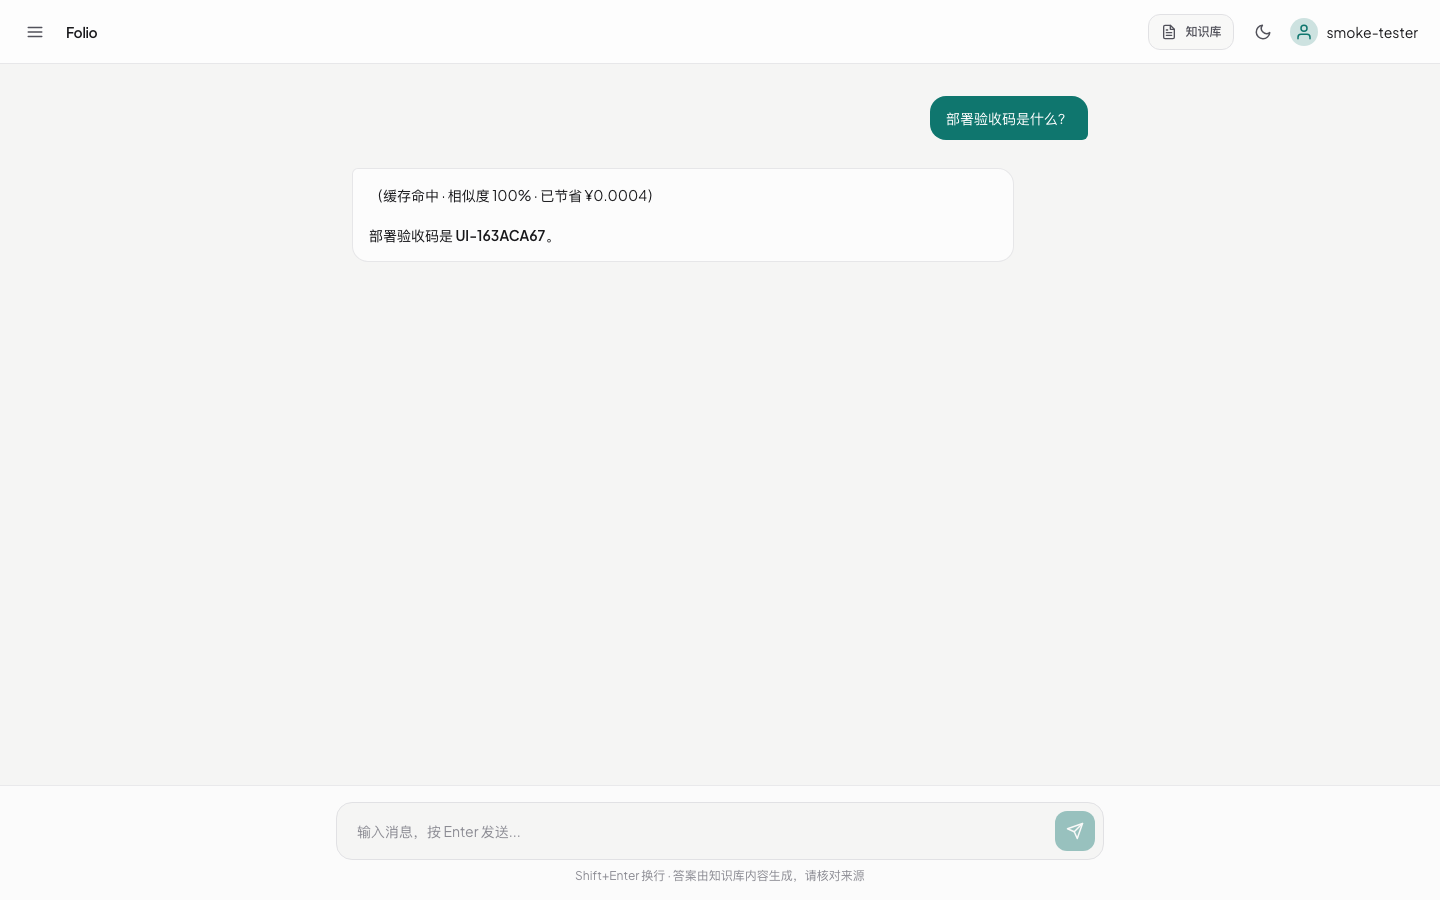
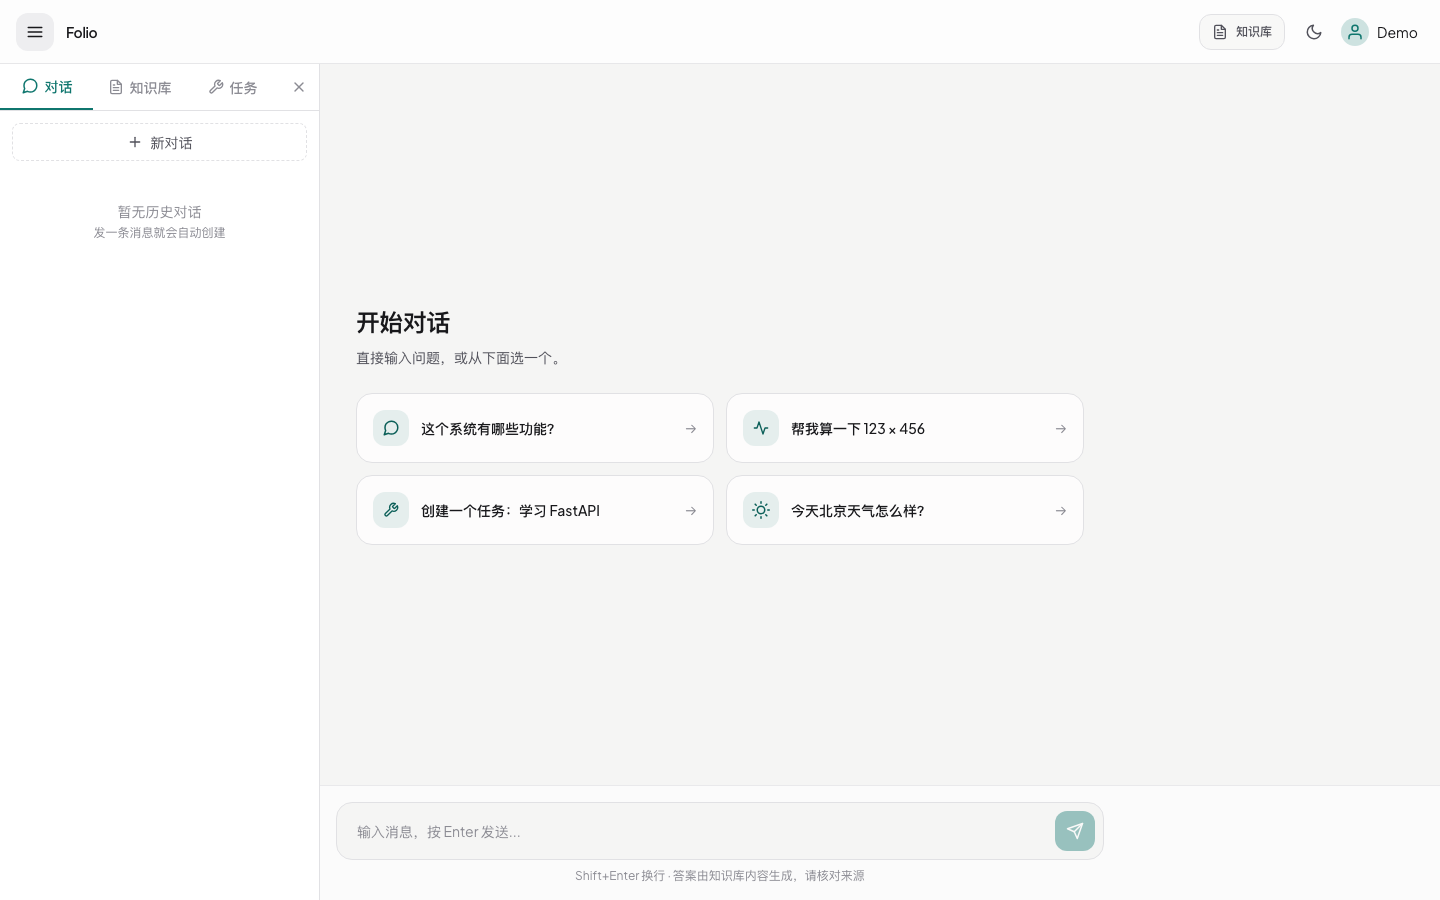
docs: 清理旧截图并统一 Folio 标题
- PROJECT_NAME 与 OpenAPI 标题改为 Folio，API 欢迎语同步
- README 截图换成中性主题下的登录/聊天/知识库三张
- 删除不再引用的旧版截图

diff --git a/app/main.py b/app/main.py
@@ -109,8 +109,8 @@ async def lifespan(app: FastAPI):
 
 
 app = FastAPI(
-    title="FastAPI Starter",
-    description="A production-ready FastAPI AI Agent starter project.",
+    title=settings.PROJECT_NAME,
+    description="Folio — a self-hosted knowledge workspace with RAG, source citations, and observability.",
     version="0.1.0",
     lifespan=lifespan,
     docs_url=None,
@@ -264,6 +264,6 @@ else:
     @app.get("/", summary="根目录欢迎信息", tags=["Root"])
     async def root():
         return {
-            "message": "Welcome to FastAPI Starter. Visit /docs for API documentation.",
+            "message": "Welcome to Folio. Visit /docs for API documentation.",
             "docs_url": "/docs",
         }

diff --git a/app/core/config.py b/app/core/config.py
@@ -11,7 +11,7 @@ class Settings(BaseSettings):
     """
 
     # 项目基础信息
-    PROJECT_NAME: str = "FastAPI Starter"
+    PROJECT_NAME: str = "Folio"
     VERSION: str = "0.1.0"
     TESTING: bool = False
 
